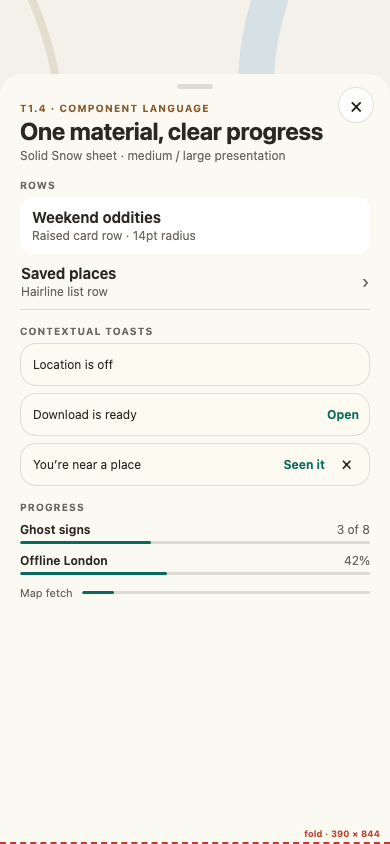
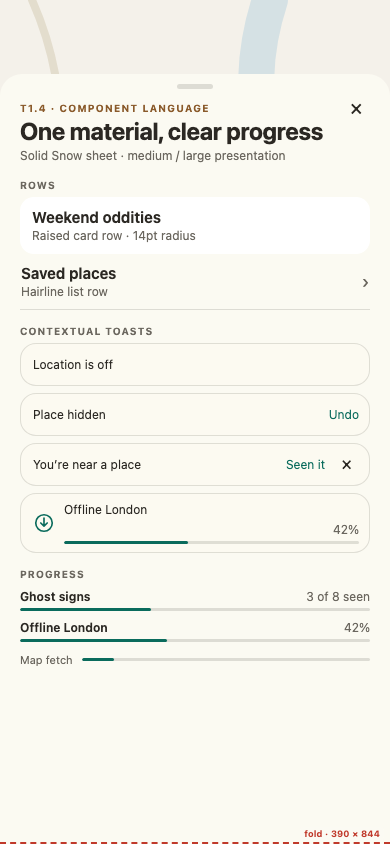
Align renders with component contracts

diff --git a/docs/design/design-system/t1.4-components-b-ax.html b/docs/design/design-system/t1.4-components-b-ax.html
@@ -3,66 +3,120 @@
 <head>
 <meta charset="utf-8">
 <meta name="viewport" content="width=device-width, initial-scale=1">
-<title>T1.4 components B — accessibility size</title>
+<title>T1.4 components B — AXXXL</title>
 <style>
   * { box-sizing: border-box; }
-  html, body { width: 390px; height: 844px; margin: 0; overflow: hidden; }
+  html, body { width: 390px; min-height: 844px; margin: 0; }
   body {
-    --ground: #F4F1EA; --surface: #FBFAF2; --surface-raised: #FFFFFF; --ink: #2B2823;
-    --muted: #6B675F; --accent: #0A6B5C; --eyebrow: #8A5A2B; --hairline: rgba(43,40,35,.14);
-    background: var(--ground); color: var(--ink); font-family: -apple-system, BlinkMacSystemFont, "SF Pro Text", sans-serif;
+    --ground: #F4F1EA;
+    --surface: #FBFAF2;
+    --surface-raised: #FFFFFF;
+    --ink: #2B2823;
+    --muted: #6B675F;
+    --accent: #0A6B5C;
+    --eyebrow: #8A5A2B;
+    --hairline: rgba(43, 40, 35, 0.14);
+    background: var(--ground);
+    color: var(--ink);
+    font-family: -apple-system, BlinkMacSystemFont, "SF Pro Text", sans-serif;
   }
-  .canvas { position: relative; width: 390px; height: 844px; overflow: hidden; background: var(--ground); }
-  .sheet { position: absolute; inset: 20px 0 0; overflow: hidden; background: var(--surface); border-radius: 22px 22px 0 0; }
+  .canvas { position: relative; width: 390px; min-height: 844px; background: var(--ground); }
+  .sheet {
+    position: absolute; top: 12px; left: 0; right: 0; min-height: 832px;
+    background: var(--surface); border-radius: 22px 22px 0 0;
+  }
   .grabber { width: 36px; height: 5px; margin: 10px auto 0; border-radius: 999px; background: var(--hairline); }
-  .close { position: absolute; top: 13px; right: 15px; width: 44px; height: 44px; display:grid; place-items:center; border:1px solid var(--hairline); border-radius:50%; background:var(--surface-raised); font-size:24px; }
-  .content { padding: 16px 18px 14px; }
-  .eyebrow { color:var(--eyebrow); font-size:11px; line-height:1.2; font-weight:700; letter-spacing:.1em; text-transform:uppercase; }
-  h1 { margin:5px 52px 3px 0; font-size:25px; line-height:1.13; letter-spacing:-.4px; }
-  .sub { margin:0; color:var(--muted); font-size:15px; line-height:1.3; }
-  .section { margin-top: 13px; color:var(--muted); font-size:11px; line-height:1.2; font-weight:700; letter-spacing:.1em; text-transform:uppercase; }
-  .raised { margin-top:6px; padding:10px 11px; background:var(--surface-raised); border-radius:14px; }
-  .title { font-size:17px; line-height:1.22; font-weight:700; }
-  .meta { margin-top:2px; color:var(--muted); font-size:14px; line-height:1.27; }
-  .hairline { display:flex; gap:10px; align-items:center; padding:9px 1px; border-bottom:1px solid var(--hairline); }
-  .hairline .meta { flex:1; margin:0; }
-  .toast-stack { display:grid; gap:7px; margin-top:6px; }
-  .toast { padding:10px 11px; border:1px solid var(--hairline); border-radius:16px; background:rgba(251,250,242,.62); -webkit-backdrop-filter:blur(16px) saturate(120%); backdrop-filter:blur(16px) saturate(120%); }
-  .toast-message { font-size:16px; line-height:1.24; }
-  .toast-actions { display:flex; justify-content:flex-end; gap:18px; margin-top:8px; color:var(--accent); font-size:16px; line-height:1.2; font-weight:700; }
-  .dismiss { color:var(--ink); }
-  .progress { display:grid; gap:5px; margin-top:9px; }
-  .progress-head { display:flex; justify-content:space-between; gap:12px; font-size:15px; line-height:1.2; }
-  .progress-head strong { font-weight:700; } .progress-head span { color:var(--muted); white-space:nowrap; }
-  .track { height:3px; overflow:hidden; border-radius:999px; background:var(--hairline); }
-  .fill { height:3px; border-radius:999px; background:var(--accent); }
-  .fetch { display:flex; align-items:center; gap:10px; margin-top:11px; color:var(--muted); font-size:14px; }
-  .fetch .track { flex:1; } .fetch .fill { width:32px; }
-  .fold { position:absolute; left:0; right:0; bottom:0; border-top:2px dashed #C0392B; }
-  .fold-label { position:absolute; right:6px; bottom:4px; padding:1px 4px; border-radius:3px; color:#C0392B; background:rgba(251,250,242,.94); font-size:9px; font-weight:700; }
+  .close {
+    position: absolute; top: 12px; right: 11px; width: 44px; height: 44px;
+    display: grid; place-items: center; color: var(--ink); font-size: 28px; line-height: 1;
+  }
+  .content { padding: 13px 18px 16px; }
+  .eyebrow {
+    margin-right: 48px; color: var(--eyebrow); font-size: 18px; line-height: 1.15;
+    font-weight: 700; letter-spacing: .07em; text-transform: uppercase;
+  }
+  h1 { margin: 6px 48px 2px 0; font-size: 34px; line-height: 1.06; letter-spacing: -.5px; }
+  .sub { margin: 0; color: var(--muted); font-size: 18px; line-height: 1.25; }
+  .section {
+    margin: 12px 0 6px; color: var(--muted); font-size: 18px; line-height: 1.15;
+    font-weight: 700; letter-spacing: .07em; text-transform: uppercase;
+  }
+  .raised { padding: 10px 12px; background: var(--surface-raised); border-radius: 14px; }
+  .row-title { font-size: 24px; line-height: 1.17; font-weight: 650; }
+  .meta { margin-top: 3px; color: var(--muted); font-size: 18px; line-height: 1.2; }
+  .hairline {
+    display: flex; align-items: center; gap: 12px; padding: 9px 1px;
+    border-bottom: 1px solid var(--hairline);
+  }
+  .hairline .row-title { flex: 1; }
+  .chevron { flex: none; color: var(--muted); font-size: 24px; }
+  .toast-stack { display: grid; gap: 7px; }
+  .toast {
+    padding: 10px 12px; border: 1px solid var(--hairline); border-radius: 16px;
+    background: rgba(251, 250, 242, .62);
+    -webkit-backdrop-filter: blur(16px) saturate(120%);
+    backdrop-filter: blur(16px) saturate(120%);
+  }
+  .toast-message { font-size: 24px; line-height: 1.2; }
+  .toast-actions {
+    display: flex; flex-direction: column; align-items: flex-start;
+    margin-top: 5px; color: var(--accent); font-size: 24px; line-height: 1.1;
+  }
+  .toast-action { min-height: 44px; display: flex; align-items: center; }
+  .dismiss { color: var(--ink); }
+  .progress { display: grid; gap: 6px; }
+  .progress-head {
+    display: flex; align-items: first baseline; justify-content: space-between;
+    gap: 12px; font-size: 20px; line-height: 1.2;
+  }
+  .progress-title { min-width: 0; font-weight: 650; }
+  .progress-count { flex: none; color: var(--muted); white-space: nowrap; }
+  .track { height: 3px; border-radius: 999px; background: var(--hairline); }
+  .fill { height: 3px; border-radius: 999px; background: var(--accent); }
+  .fold { position: absolute; left: 0; right: 0; bottom: 0; border-top: 2px dashed #C0392B; }
+  .fold-label {
+    position: absolute; right: 6px; bottom: 4px; padding: 1px 4px; border-radius: 3px;
+    background: rgba(251,250,242,.94); color: #C0392B; font-size: 10px; font-weight: 700;
+  }
 </style>
 </head>
 <body>
-<main class="canvas" aria-label="Accessibility-size render of the sheet, rows, toast, and progress components">
-  <section class="sheet" aria-label="Material sheet with accessibility-sized content">
-    <div class="grabber" aria-label="Sheet grabber"></div><div class="close" aria-label="Close">×</div>
+<main class="canvas" aria-label="AXXXL stress render of sheet rows, stacked toasts, and progress">
+  <section class="sheet" aria-label="Material sheet with AXXXL content">
+    <div class="grabber" aria-label="Sheet grabber"></div>
+    <div class="close" aria-label="Close">×</div>
     <div class="content">
-      <div class="eyebrow">T1.4 · accessibility size</div>
-      <h1>Components grow without a fixed-height trap</h1>
-      <p class="sub">390pt canvas · long real-world strings remain inside the sheet</p>
-      <div class="section">Rows</div>
-      <div class="raised"><div class="title">A long saved-list name wraps inside the raised card row</div><div class="meta">Two lines remain legible at accessibility size.</div></div>
-      <div class="hairline"><div class="meta">A hairline row can carry a deliberately longer description without escaping its width.</div><span aria-hidden="true">›</span></div>
-      <div class="section">Contextual toasts — stacked actions</div>
-      <div class="toast-stack">
-        <div class="toast"><div class="toast-message">Location is off. Turn it on when you want nearby places.</div></div>
-        <div class="toast"><div class="toast-message">London download is ready to continue on this phone.</div><div class="toast-actions"><span>Open downloads</span></div></div>
-        <div class="toast"><div class="toast-message">You&rsquo;re near the old signal house on Riverside Walk.</div><div class="toast-actions"><span>Seen it</span><span class="dismiss">Dismiss</span></div></div>
+      <div class="eyebrow">T1.4 · AXXXL</div>
+      <h1>Components grow at accessibility size</h1>
+      <p class="sub">390pt canvas · no hidden clipping</p>
+
+      <div class="section">Multiline rows</div>
+      <div class="raised">
+        <div class="row-title">A long saved-list name wraps across multiple lines</div>
+        <div class="meta">Raised row · 14pt radius</div>
       </div>
-      <div class="section">Progress</div>
-      <div class="progress"><div class="progress-head"><strong>Ghost signs in Bermondsey</strong><span>3 of 8</span></div><div class="track"><div class="fill" style="width:37.5%"></div></div></div>
-      <div class="progress"><div class="progress-head"><strong>Offline London download</strong><span>42%</span></div><div class="track"><div class="fill" style="width:42%"></div></div></div>
-      <div class="fetch"><span>Map fetch</span><div class="track"><div class="fill"></div></div></div>
+      <div class="hairline">
+        <div class="row-title">Hairline rows carry longer multiline descriptions safely.</div>
+        <span class="chevron" aria-hidden="true">›</span>
+      </div>
+
+      <div class="section">Stacked toasts</div>
+      <div class="toast-stack">
+        <div class="toast">
+          <div class="toast-message">Location is off. Turn it on for nearby places.</div>
+          <div class="toast-actions"><span class="toast-action">Settings</span></div>
+        </div>
+        <div class="toast">
+          <div class="toast-message">You&rsquo;re near the old signal house on Riverside Walk.</div>
+          <div class="toast-actions"><span class="toast-action">Seen it</span><span class="toast-action dismiss">Dismiss</span></div>
+        </div>
+      </div>
+
+      <div class="section">Title + semantic count</div>
+      <div class="progress">
+        <div class="progress-head"><span class="progress-title">Ghost signs in Bermondsey</span><span class="progress-count">3 of 8 seen</span></div>
+        <div class="track"><div class="fill" style="width:37.5%"></div></div>
+      </div>
     </div>
     <div class="fold"></div><div class="fold-label">fold · 390 × 844</div>
   </section>

diff --git a/docs/design/design-system/t1.4-components-b.html b/docs/design/design-system/t1.4-components-b.html
@@ -29,9 +29,8 @@
   }
   .grabber { width: 36px; height: 5px; margin: 10px auto 0; border-radius: 999px; background: var(--hairline); }
   .close {
-    position: absolute; top: 13px; right: 16px; width: 36px; height: 36px;
-    display: grid; place-items: center; border: 1px solid var(--hairline); border-radius: 50%;
-    color: var(--ink); background: var(--surface-raised); font-size: 21px; line-height: 1;
+    position: absolute; top: 11px; right: 12px; width: 44px; height: 44px;
+    display: grid; place-items: center; color: var(--ink); font-size: 21px; line-height: 1;
   }
   .content { padding: 13px 20px 20px; }
   .eyebrow { color: var(--eyebrow); font-size: 10px; font-weight: 700; letter-spacing: .12em; text-transform: uppercase; }
@@ -53,8 +52,12 @@
     font-size: 12px; line-height: 1.25;
   }
   .toast-message { flex: 1; min-width: 0; }
-  .action { flex: none; color: var(--accent); font-weight: 700; white-space: nowrap; }
+  .action { flex: none; color: var(--accent); white-space: nowrap; }
   .dismiss { flex: none; width: 25px; height: 25px; display: grid; place-items: center; color: var(--ink); font-size: 18px; }
+  .system-symbol { flex: none; width: 22px; height: 22px; color: var(--accent); }
+  .download-copy { flex: 1; min-width: 0; display: grid; gap: 5px; }
+  .download-progress { display: grid; gap: 4px; }
+  .download-progress .progress-head { justify-content: flex-end; }
   .progress-row { display: grid; gap: 4px; margin: 9px 0; }
   .progress-head { display: flex; align-items: baseline; justify-content: space-between; color: var(--muted); font-size: 12px; }
   .progress-head strong { color: var(--ink); font-weight: 650; }
@@ -95,13 +98,17 @@
       <div class="section-label">Contextual toasts</div>
       <div class="toast-stack">
         <div class="toast"><span class="toast-message">Location is off</span></div>
-        <div class="toast"><span class="toast-message">Download is ready</span><span class="action">Open</span></div>
+        <div class="toast"><span class="toast-message">Place hidden</span><span class="action">Undo</span></div>
         <div class="toast"><span class="toast-message">You&rsquo;re near a place</span><span class="action">Seen it</span><span class="dismiss" aria-label="Dismiss nearby prompt">×</span></div>
+        <div class="toast" aria-label="Offline London download progress. Opens Offline maps.">
+          <svg class="system-symbol" viewBox="0 0 24 24" aria-hidden="true" fill="none" stroke="currentColor" stroke-width="1.8" stroke-linecap="round" stroke-linejoin="round"><circle cx="12" cy="12" r="9"/><path d="M12 6.5v9M8.5 12l3.5 3.5 3.5-3.5"/></svg>
+          <div class="download-copy"><span class="toast-message">Offline London</span><div class="download-progress"><div class="progress-head"><span>42%</span></div><div class="track"><div class="fill" style="width:42%"></div></div></div></div>
+        </div>
       </div>
 
       <div class="section-label">Progress</div>
       <div class="progress-row">
-        <div class="progress-head"><strong>Ghost signs</strong><span>3 of 8</span></div>
+        <div class="progress-head"><strong>Ghost signs</strong><span>3 of 8 seen</span></div>
         <div class="track"><div class="fill" style="width:37.5%"></div></div>
       </div>
       <div class="progress-row">
